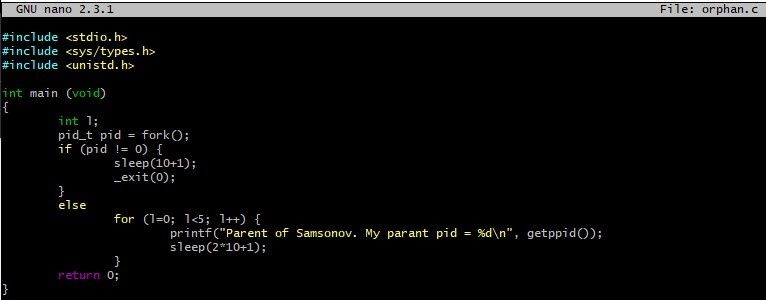
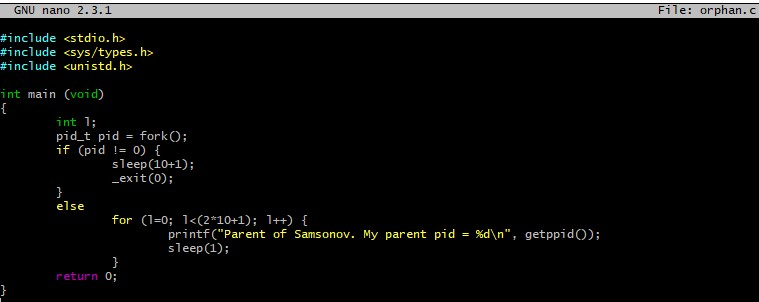
download all files to the GitHub

diff --git a/orphan.c b/orphan.c
@@ -11,9 +11,9 @@ int main (void)
 		_exit(0);
 	}
 	else
-		for (l=0; l<5; l++) {
-			printf("Parent of Samsonov. My parant pid = %d\n", getppid());
-			sleep(2*10+1);
+		for (l=0; l<(2*10+1); l++) {
+			printf("Parent of Samsonov. My parent pid = %d\n", getppid());
+			sleep(1);
 		}
 	return 0;
 }
